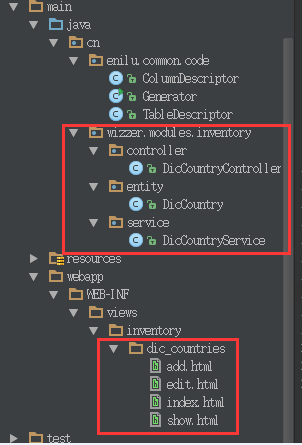
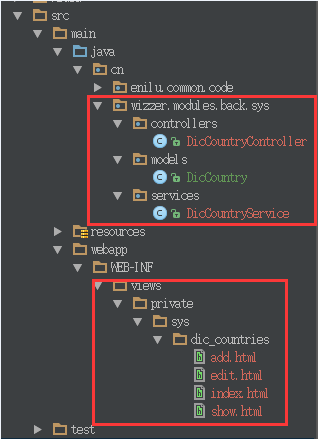
Changed 完善说明文件

Changed region(s): [[0.0, 0.0, 1.0, 1.0], [0.0894, 0.5626, 0.1192, 0.6515]]

diff --git a/README.md b/README.md
@@ -12,17 +12,21 @@
 
 ## 使用手册
 
-        usage: Main [options] [all|entity|service|controller|view]
-         -c,--config <arg>     spring datasource config file(classpath)
-         -f,--force            force generate file even if file exists
-         -h,--help             show help message
-         -i,--include <arg>    include table pattern
-         -o,--output <arg>     output directory, default is src/main/java
-         -p,--package <arg>    base package name
-         -u,--base-uri <arg>   base uri prefix, default is /
-         -x,--exclude <arg>    exclude table pattern
+     -c,--config <arg>      spring datasource config file(classpath),default:code.json
+     -ctr,--package <arg>   controller base package name,default:${package}/controllers
+     -f,--force             force generate file even if file exists,default:false
+     -h,--help              show help message
+     -i,--include <arg>     include table pattern,default:all of tables
+     -mod,--package <arg>   model base package name,default:${package}/models
+     -o,--output <arg>      output directory, default is src/main/java
+     -p,--package <arg>     base package name,default:cn.wizzer.modules
+     -sev,--package <arg>   service base package name,default:${package}/services
+     -u,--base-uri <arg>    base uri prefix, default is /
+     -x,--exclude <arg>     exclude table pattern
 
 ##举例
+
+### 1,根据表生成相关代码
 
 - 比如使用下面语句建表：
 
@@ -38,11 +42,41 @@
 
 - 运行Generator类的时候加上如下参数：         
     
-        -p cn.wizzer.modules.inventory -i dic_country -u /inventory
-  
+        -i dic_country -p cn.wizzer.modules.back.sys  -u /private/sys
+        
 - 会生成目录结构如下的代码：
  
  ![生成代码结构图](code-structure.png)
+ 
+### 2,根据java实体生成相关代码
+- 准备 java model类：
+
+    
+        @Comment("国家")
+        @Table("dic_country")
+        public class DicCountry  implements Serializable {
+            private static final long serialVersionUID = 1L;
+            @Name
+            @Prev(els = {@EL("uuid()")})
+            private String id;            
+            @Column
+            @Comment("编码")
+            @ColDefine(type = ColType.VARCHAR)
+            private String code;            
+            @Column
+            @Comment("名称")
+            @ColDefine(type = ColType.VARCHAR)
+            private String name;            
+            setter...
+            getter...   
+        }
+      
+- 运行Generator类的时候加上如下参数：         
+    
+        -i dic_country -p cn.wizzer.modules.back.sys  -u /private/sys
+
+        
+- 会生成和上图一致的代码
  
  
 ## 后续功能
